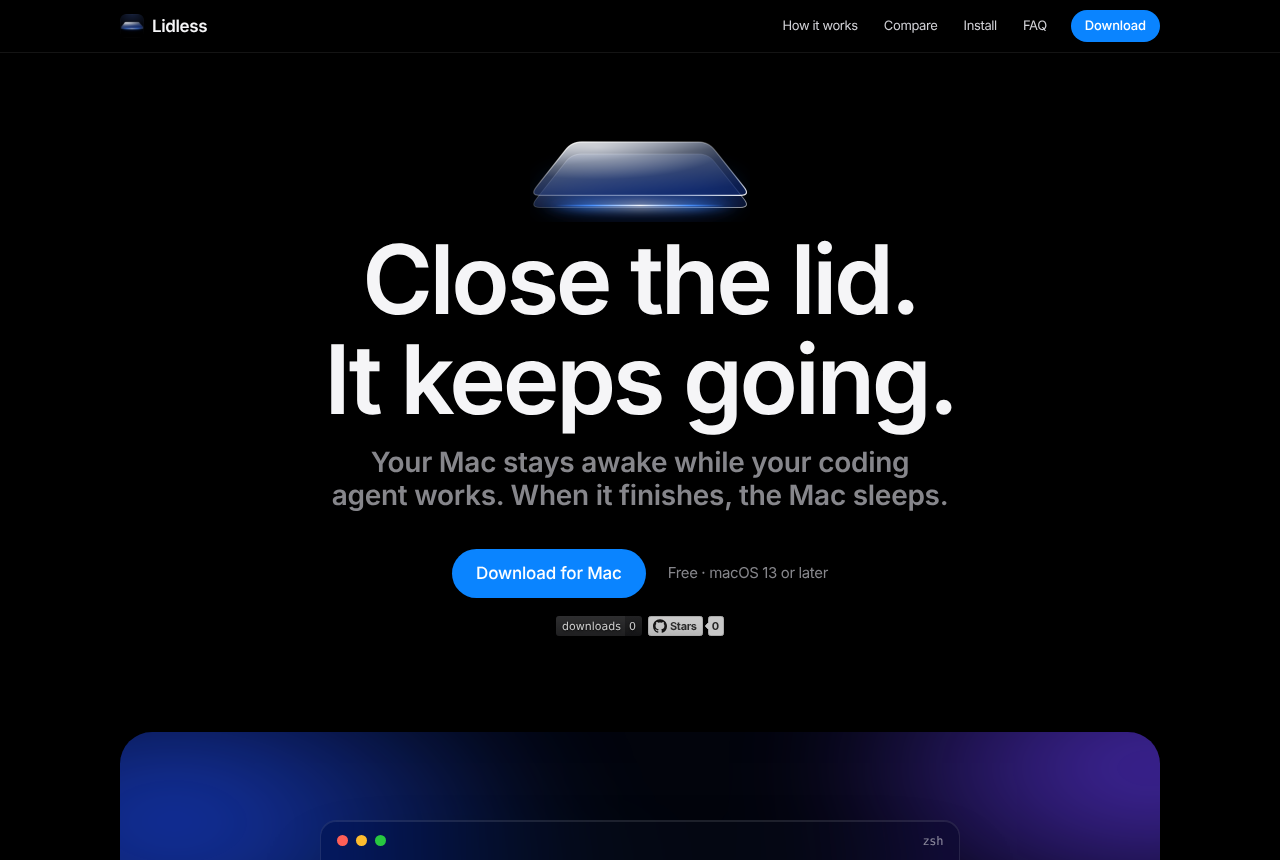
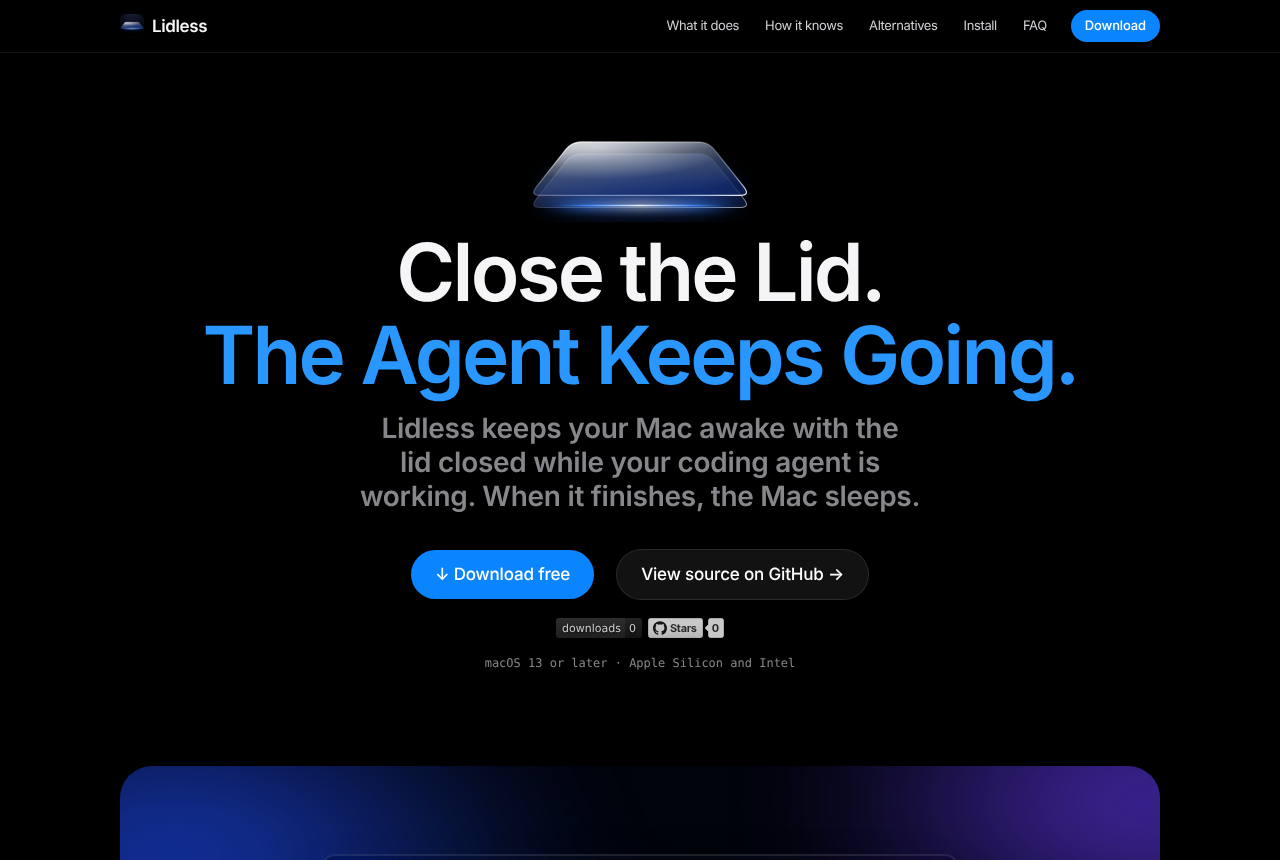
Site: restore original copy, add Title Case headlines
All original wording is back verbatim (hero, buttons, section text,
callouts, FAQ, footer). New text is only added: a large Title Case
headline per section, written around "Your Agent", with the original
section names kept as numbered mono labels above them.

Claude-Session: https://claude.ai/code/session_0197D9BbWCwspEe3TYW1pizU

diff --git a/website/index.html b/website/index.html
@@ -68,7 +68,7 @@
   /* Hero */
   .hero { padding-top: calc(env(safe-area-inset-top, 0px) + 128px); text-align: center; }
   .hero .logo { width: min(220px, 52vw); margin: 0 auto 8px; animation: float 7s ease-in-out infinite; }
-  .hero h1 { font-size: clamp(48px, 8.4vw, 96px); line-height: 1.04; letter-spacing: -.035em; }
+  .hero h1 { font-size: clamp(40px, 7vw, 80px); line-height: 1.04; letter-spacing: -.035em; }
   .sub { font-size: clamp(19px, 2.2vw, 28px); line-height: 1.2; font-weight: 600; color: var(--ink-2); letter-spacing: -.01em; margin-top: 16px; text-wrap: balance; }
   .cta { display: flex; justify-content: center; align-items: center; gap: 22px; flex-wrap: wrap; margin-top: 36px; }
   .cta small { font-size: 15px; color: var(--ink-2); }
@@ -163,6 +163,22 @@
   .faq details[open] summary::after { transform: translateY(-50%) rotate(45deg); }
   .faq p { color: var(--ink-2); font-size: 17px; padding: 0 40px 24px 0; max-width: 62ch; }
 
+
+  /* Section labels keep the original numbered mono style */
+  main { counter-reset: sec; }
+  .eyebrow { counter-increment: sec; display: inline-flex; align-items: center; gap: 10px; font: 400 12px var(--mono); letter-spacing: .18em; text-transform: uppercase; color: var(--ink-2); margin-bottom: 18px; }
+  .eyebrow::before { content: counter(sec, decimal-leading-zero); color: var(--blue-hi); letter-spacing: .06em; }
+  .hero h1 .accent, .ch h2 .accent { color: var(--blue-hi); }
+  .hero .sub { max-width: 640px; margin-left: auto; margin-right: auto; }
+  .cta-note { margin-top: 18px; font: 12px var(--mono); letter-spacing: 0; color: var(--ink-2); }
+  .ch .body p + p { margin-top: 14px; }
+  .tiles.text > div { justify-content: flex-start; min-height: 0; }
+  .tiles h3 { font-size: clamp(20px, 2vw, 24px); line-height: 1.15; font-weight: 600; letter-spacing: -.02em; margin-bottom: 10px; }
+  .tiles p { color: var(--ink-2); font-size: 16px; }
+  .tiles p strong { color: var(--ink); font-weight: 600; }
+  .notes strong.lead { display: inline; font-size: inherit; margin: 0; }
+  .note { max-width: 62ch; margin-left: auto; margin-right: auto; }
+
   /* Closing */
   .closing { text-align: center; padding-bottom: clamp(100px, 12vw, 160px); }
   .closing .logo { width: min(180px, 46vw); margin: 0 auto 12px; }
@@ -192,8 +208,9 @@
 
 <nav class="nav" aria-label="Main"><div class="wrap">
   <a class="brand" href="#top"><img src="icon.png" alt="">Lidless</a>
-  <a class="l" href="#how">How it works</a>
-  <a class="l" href="#compare">Compare</a>
+  <a class="l" href="#what">What it does</a>
+  <a class="l" href="#how">How it knows</a>
+  <a class="l" href="#alternatives">Alternatives</a>
   <a class="l" href="#install">Install</a>
   <a class="l" href="#faq">FAQ</a>
   <a class="btn sm" href="https://github.com/aarav-puri/lidless/releases/latest">Download</a>
@@ -204,19 +221,20 @@
   <header class="hero wrap">
     <img class="logo fade" style="--d:0s" src="logo.png" width="440" height="188" alt="Lidless logo: a closed laptop made of glass, light leaking from the seam">
     <h1 class="reveal">
-      <span class="sr-only">Close the lid. The agent keeps going.</span>
-      <span class="line" aria-hidden="true"><span class="clip"><span class="word" style="--d:.05s">Close</span></span> <span class="clip"><span class="word" style="--d:.13s">the</span></span> <span class="clip"><span class="word" style="--d:.21s">lid.</span></span></span>
-      <span class="line" aria-hidden="true"><span class="clip"><span class="word" style="--d:.33s">It</span></span> <span class="clip"><span class="word" style="--d:.41s">keeps</span></span> <span class="clip"><span class="word" style="--d:.49s">going.</span></span></span>
+      <span class="sr-only">Close the Lid. The Agent Keeps Going.</span>
+      <span class="line" aria-hidden="true"><span class="clip"><span class="word" style="--d:.05s">Close</span></span> <span class="clip"><span class="word" style="--d:.13s">the</span></span> <span class="clip"><span class="word" style="--d:.21s">Lid.</span></span></span>
+      <span class="line accent" aria-hidden="true"><span class="clip"><span class="word" style="--d:.33s">The</span></span> <span class="clip"><span class="word" style="--d:.41s">Agent</span></span> <span class="clip"><span class="word" style="--d:.49s">Keeps</span></span> <span class="clip"><span class="word" style="--d:.57s">Going.</span></span></span>
     </h1>
-    <p class="sub fade" style="--d:.6s">Your Mac stays awake while your coding agent works. When it finishes, the Mac sleeps.</p>
+    <p class="sub fade" style="--d:.6s">Lidless keeps your Mac awake with the lid closed while your coding agent is working. When it finishes, the Mac sleeps.</p>
     <div class="cta fade" style="--d:.75s">
-      <a class="btn" href="https://github.com/aarav-puri/lidless/releases/latest">Download for Mac</a>
-      <small>Free · macOS 13 or later</small>
+      <a class="btn" href="https://github.com/aarav-puri/lidless/releases/latest">↓ Download free</a>
+      <a class="btn ghost" href="https://github.com/aarav-puri/lidless">View source on GitHub →</a>
     </div>
     <div class="badges fade" style="--d:.9s">
       <a href="https://github.com/aarav-puri/lidless/releases/latest"><img src="https://img.shields.io/github/downloads/aarav-puri/lidless/total?color=1c1c1e&amp;labelColor=2c2c2e" alt="Downloads"></a>
       <a href="https://github.com/aarav-puri/lidless"><img src="https://img.shields.io/github/stars/aarav-puri/lidless?style=social" alt="GitHub stars"></a>
     </div>
+    <p class="cta-note fade" style="--d:.9s">macOS 13 or later · Apple Silicon and Intel</p>
 
     <div class="stage fade" style="--d:1s">
       <div class="term glass" id="term" role="img" aria-label="Terminal: lidless run wraps a test suite, lidless status shows lid sleep disabled while Claude Code and npm hold it">
@@ -226,38 +244,35 @@
     </div>
   </header>
 
+  <section class="ch wrap" id="what">
+    <div class="head in">
+      <p class="eyebrow">What it does</p>
+      <h2>No Timer.<br><span class="accent">Your Agent Decides.</span></h2>
+      <div class="body">
+        <p>Keep-awake apps make you pick a duration. Lidless watches the agent instead. While an agent is working it holds <code>pmset disablesleep</code>, the setting that covers lid-close sleep. When the work stops, it lets go.</p>
+      </div>
+    </div>
+  </section>
+
   <section class="ch wrap" id="how">
     <div class="head in">
-      <h2>No timer.<br><span class="blue">It watches the agent.</span></h2>
-      <p class="body">Keep-awake apps make you pick a duration. Lidless holds <code>pmset disablesleep</code>, the setting that covers lid-close sleep, while an agent is working, and lets go when it stops.</p>
+      <p class="eyebrow">How it knows</p>
+      <h2>Your Agent Starts.<br><span class="accent">Lidless Knows.</span></h2>
     </div>
-    <div class="tiles lit in">
-      <div class="glass blue"><span class="k">Hooks</span><b>Claude Code and Codex. Exact.</b><span>Every turn's start and finish, across every session and terminal.</span></div>
-      <div class="glass"><span class="k">Activity</span><b>Everything else. Close.</b><span>Working while it or anything it spawned uses CPU. Two quiet minutes to let go.</span></div>
-      <div class="glass"><span class="k">Wrap</span><b><code>lidless run</code></b><span>Put it in front of any command. Awake until it exits.</span></div>
+    <div class="tiles text lit in">
+      <div class="glass"><h3>Claude Code and Codex: exact</h3><p>Lidless adds hooks to <code>~/.claude/settings.json</code> and <code>~/.codex/hooks.json</code> in the background. <code>UserPromptSubmit</code> starts a hold; <code>Stop</code>, <code>SessionEnd</code> and, for Codex, <code>Interrupt</code> end it. Works across every session and terminal. Codex asks to review new hooks once the next time it opens. Until then, Codex is tracked by activity.</p></div>
+      <div class="glass"><h3>Other agents: by activity</h3><p>Everything else is detected by process. An agent counts as working while it or anything it spawned is using CPU. Lidless waits two quiet minutes before letting go, so a slow model response is not mistaken for done.</p></div>
+      <div class="glass"><h3>Anything else: wrap it</h3><p>Put <code>lidless run</code> in front of any command and the Mac stays awake until it exits. <code>lidless status</code> shows what is holding it.</p></div>
     </div>
     <div class="chips in">
       <span class="glass">Claude Code</span><span class="glass">Codex</span><span class="glass">Gemini CLI</span><span class="glass">Aider</span><span class="glass">OpenCode</span><span class="glass">Cursor Agent</span><span class="glass">Goose</span><span class="glass">Amp</span><span class="glass">Qwen Code</span><span class="glass">Crush</span><span class="glass">Droid</span><span class="glass">Copilot CLI</span>
     </div>
   </section>
 
-  <section class="ch wrap">
+  <section class="ch wrap" id="alternatives">
     <div class="head in">
-      <h2>When it's done,<br>it sleeps.</h2>
-      <p class="sub">Lid shut, agent finished: the Mac goes to sleep within seconds.</p>
-    </div>
-    <div class="tiles lit in">
-      <div class="glass"><b>20%</b><span>Lets go on battery power at 20%. Plug in for long runs.</span></div>
-      <div class="glass"><b>Too hot</b><span>Lets go when macOS reports a critical thermal state.</span></div>
-      <div class="glass blue"><b>No network</b><span>No telemetry, no account. Nothing leaves your Mac.</span></div>
-    </div>
-    <p class="note in">Keep the Mac on a hard surface while an agent runs, and never put it in a bag mid-run.</p>
-  </section>
-
-  <section class="ch wrap" id="compare">
-    <div class="head in">
-      <h2>One thing, done right.</h2>
-      <p class="sub">Amphetamine does far more. Lidless just keeps a closed Mac awake while an agent works.</p>
+      <p class="eyebrow">Alternatives</p>
+      <h2>One Thing,<br><span class="accent">Done for Your Agent.</span></h2>
     </div>
     <div class="table glass in">
       <table aria-label="Feature comparison">
@@ -272,32 +287,46 @@
         </tbody>
       </table>
     </div>
+    <p class="note in">Amphetamine does far more. Lidless does one thing: keeps a closed Mac awake while an agent works, then lets it sleep.</p>
   </section>
 
   <section class="ch wrap" id="install">
     <div class="head in">
-      <h2>Set up once.</h2>
-      <p class="sub">Three steps. One password prompt.</p>
+      <p class="eyebrow">Install</p>
+      <h2>Set Up Once.<br><span class="accent">Your Agent Does the Rest.</span></h2>
     </div>
-    <div class="tiles lit in">
-      <div class="glass"><span class="k">1</span><b>Download</b><span><code>Lidless.zip</code> from <a href="https://github.com/aarav-puri/lidless/releases/latest">GitHub Releases</a>. Drag it to Applications.</span></div>
-      <div class="glass"><span class="k">2</span><b>Set Up</b><span>Open it and click Set Up. macOS asks for your password once.</span></div>
-      <div class="glass blue"><span class="k">3</span><b>Close the lid</b><span>Start an agent. Walk away.</span></div>
+    <div class="tiles text lit in">
+      <div class="glass"><span class="k">1</span><p style="margin-top:28px">Download <code>Lidless.zip</code> from <a href="https://github.com/aarav-puri/lidless/releases/latest">GitHub Releases</a> and drag Lidless to Applications.</p></div>
+      <div class="glass"><span class="k">2</span><p style="margin-top:28px">Open it and click <strong>Set Up</strong>. macOS asks for your password once.</p></div>
+      <div class="glass"><span class="k">3</span><p style="margin-top:28px">Start an agent. Close the lid.</p></div>
     </div>
     <div class="notes in">
-      <div class="glass"><strong>What Set Up changes</strong>It adds <code>/etc/sudoers.d/lidless</code>, letting your user run <code>pmset -a disablesleep 1</code> and <code>0</code> without a password. Nothing else. It links <code>lidless</code> into <code>/usr/local/bin</code> and adds hooks for Claude Code and Codex, backing up each config first. Uninstall in the menu removes all of it.</div>
-      <div class="glass"><strong>Not on the App Store</strong>App Store sandboxing blocks the system call lid-close sleep needs. Same reason tools like Lunar and BetterTouchTool ship outside it.</div>
+      <div class="glass"><strong class="lead">What Set Up changes, exactly.</strong> It adds <code>/etc/sudoers.d/lidless</code>, which lets your user run two commands without a password: <code>pmset -a disablesleep 1</code> and <code>pmset -a disablesleep 0</code>. Nothing else. It also links the <code>lidless</code> command into <code>/usr/local/bin</code>. Hooks for Claude Code and Codex are added in the background when either is installed, with a backup of each config file kept first. <strong class="lead">Uninstall</strong> in the menu removes all of it.</div>
+      <div class="glass"><strong class="lead">Not on the App Store</strong> because App Store sandboxing blocks the system call lid-close sleep needs. Same reason tools like Lunar and BetterTouchTool ship outside it.</div>
+    </div>
+  </section>
+
+  <section class="ch wrap" id="safety">
+    <div class="head in">
+      <p class="eyebrow">Safety</p>
+      <h2>Your Agent Finishes.<br><span class="accent">Your Mac Sleeps.</span></h2>
+      <div class="body">
+        <p>Use at your own risk. Two rules: <strong>keep the Mac on a hard surface</strong> while an agent runs, and <strong>never put it in a bag</strong> mid-run. It will overheat.</p>
+        <p>Lidless lets go on its own when the battery drops to 20% on battery power, when macOS reports a critical thermal state, or when the app quits. Plug in for long runs.</p>
+      </div>
     </div>
   </section>
 
   <section class="ch wrap" id="faq">
-    <div class="head in"><h2>Questions</h2></div>
+    <div class="head in">
+      <p class="eyebrow">FAQ</p>
+      <h2>Questions About<br><span class="accent">Your Agent.</span></h2>
+    </div>
     <div class="faq in">
       <details><summary>Can a timer be set?</summary><p>No. The agent decides. For anything else, use <code>lidless run</code>.</p></details>
       <details><summary>Does it work without an external monitor?</summary><p>Yes. <code>pmset disablesleep</code> covers lid-close sleep directly.</p></details>
       <details><summary>What happens when the agent finishes with the lid closed?</summary><p>Lidless restores normal sleep and puts the Mac to sleep within a few seconds, unless an external display is attached.</p></details>
       <details><summary>What if Claude Code is waiting on a permission prompt?</summary><p>A permission prompt is not a finished turn, so the Mac stays awake waiting for an answer. For unattended runs, use auto mode or allow rules so nothing blocks. If a session goes fully quiet for 15 minutes without finishing, Lidless lets it go anyway.</p></details>
-      <details><summary>Codex asked me to review hooks. Is that expected?</summary><p>Yes. Codex asks once, the next time it opens after Lidless adds its hooks. Until you approve, Codex is tracked by activity.</p></details>
       <details><summary>Does it drain battery faster?</summary><p>Only while an agent is working, about the same as using it with the lid open.</p></details>
       <details><summary>Does Lidless send any data anywhere?</summary><p>No. No network access, no telemetry, no account.</p></details>
       <details><summary>Which Macs and macOS versions?</summary><p>macOS 13 Ventura and later, including Tahoe. Universal binary for Apple Silicon and Intel.</p></details>
@@ -307,12 +336,12 @@
   <section class="ch wrap closing">
     <div class="in">
       <img class="logo" src="logo.png" width="440" height="188" alt="">
-      <h2>Close the lid.</h2>
-      <p class="sub">Free, open source, for every Mac.</p>
+      <h2>Close the Lid.<br><span class="accent">Your Agent Keeps Going.</span></h2>
       <div class="cta">
-        <a class="btn" href="https://github.com/aarav-puri/lidless/releases/latest">Download for Mac</a>
-        <a class="btn ghost" href="https://github.com/aarav-puri/lidless">View source</a>
+        <a class="btn" href="https://github.com/aarav-puri/lidless/releases/latest">↓ Download free</a>
+        <a class="btn ghost" href="https://github.com/aarav-puri/lidless">View source on GitHub →</a>
       </div>
+      <p class="cta-note">macOS 13 or later · Apple Silicon and Intel</p>
     </div>
   </section>
 
@@ -320,7 +349,7 @@
 
 <footer>
   <div class="wrap">
-    <p><time datetime="2026-11">Last updated November 2026</time> · Use at your own risk.</p>
+    <p><time datetime="2026-11">Last updated November 2026</time></p>
     <nav aria-label="Footer">
       <a href="https://github.com/aarav-puri/lidless">GitHub</a>
       <a href="https://github.com/aarav-puri/lidless/blob/main/LICENSE">License</a>
